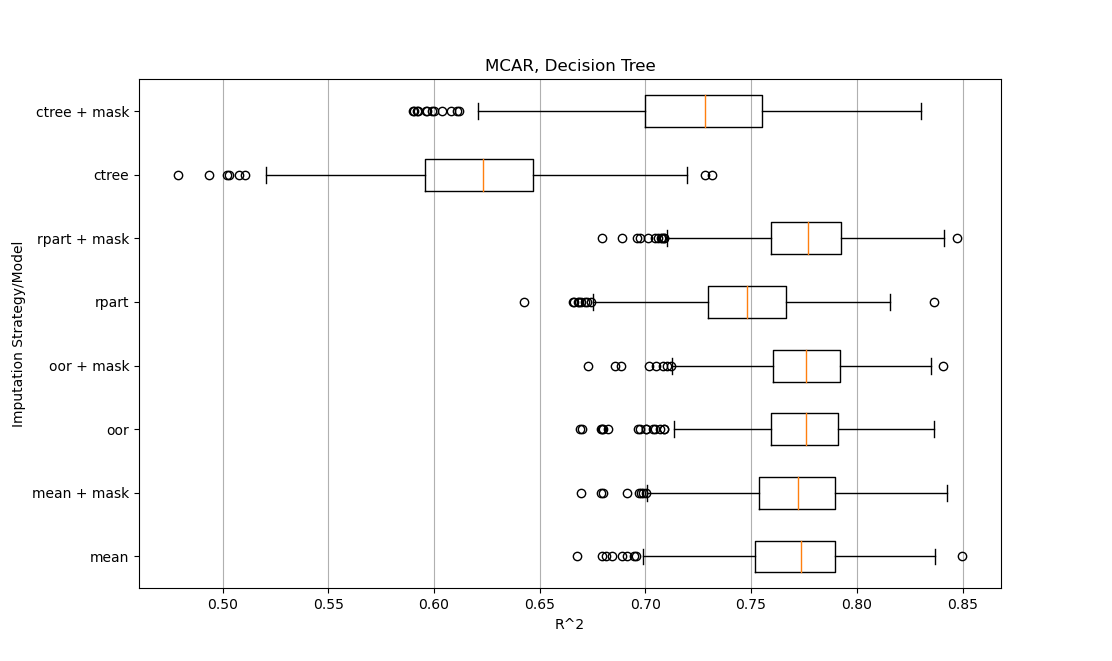
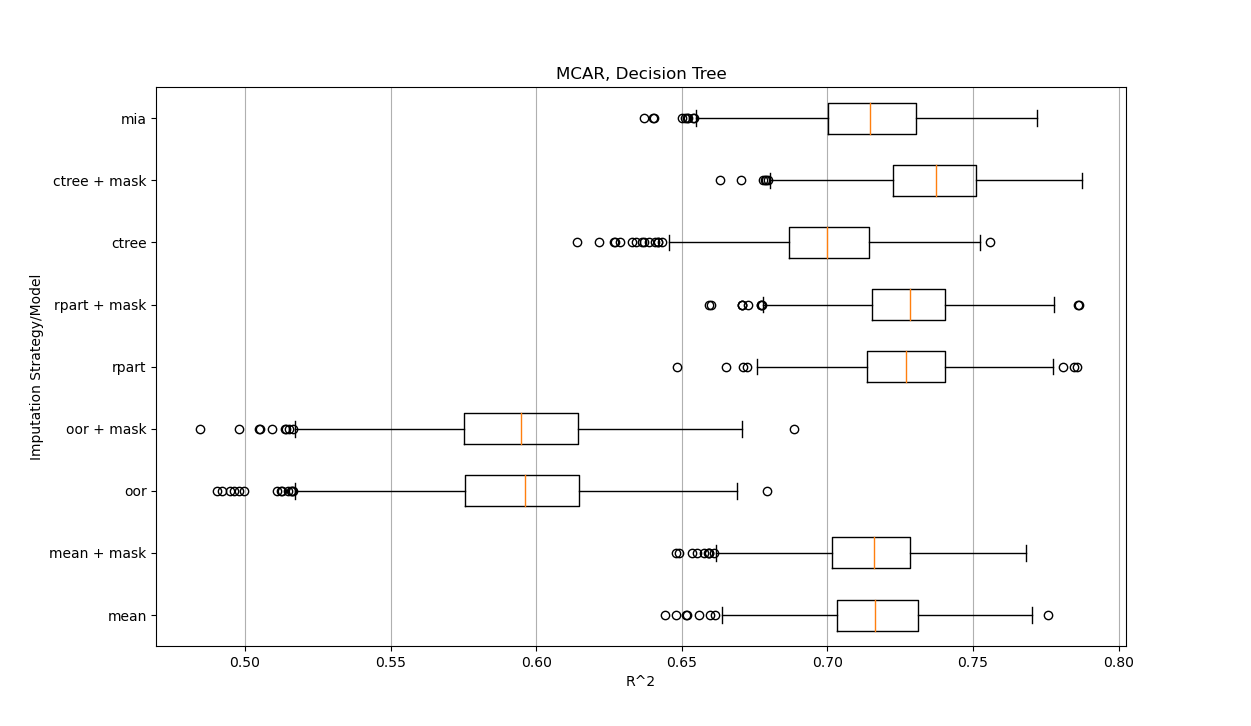
add mia and update dgp

diff --git a/data_generation.py b/data_generation.py
@@ -14,6 +14,12 @@ from sklearn.metrics import r2_score
 from sklearn.tree import DecisionTreeRegressor
 import pickle
 
+# Import necessary packages to use R in Python
+import rpy2.robjects as robjects
+import rpy2.robjects.packages as rpackages
+from rpy2.robjects.packages import importr
+from rpy2.robjects import pandas2ri
+
 def generate_data(size=1000, rho=0.5, d=10, num_missing=3, p=0.8, imputation_value=[0]*10, DGP='quadratic', missing='MCAR'):
     """
     This function controls the data-generating process.
@@ -90,8 +96,8 @@ def generate_data(size=1000, rho=0.5, d=10, num_missing=3, p=0.8, imputation_val
     
     # decide how the outcome variable Y is calculated
     if DGP == 'quadratic' and missing != 'predictive':
-        # quadratic DGP
-        Y = X[0]**2 + np.random.normal(0, 0.1, size)
+        # quadratic DGP, use the first three variables in the DGP
+        Y = X[0]**2 + X[1]**2 + X[2]**2 + np.random.normal(0, 0.1, size)
     elif DGP == 'quadratic' and missing == 'predictive':
         # a pattern mixture model where the missingness indicator is a part
         # of the regression function
@@ -140,12 +146,77 @@ def generate_data(size=1000, rho=0.5, d=10, num_missing=3, p=0.8, imputation_val
         for i in range(num_missing):
             for j in range(len(data_copy['X' + str(i+1)])):
                 if data_copy.at[j, 'R' + str(i+1)] == 0:
-                    # data_copy['X' + str(i+1)][j] = np.nan
                     data_copy.at[j, 'X' + str(i+1)] = np.nan
         return data_copy
+    elif imputation_value == 'mia':
+        data_copy = data.copy()
+
+        # step 1: make two copies of the columns of data that are incomplete
+        for i in range(num_missing):
+            data_copy['X'+str(i+1)+'copy1'] = data_copy['X'+str(i+1)].copy()
+            data_copy['X'+str(i+1)+'copy2'] = data_copy['X'+str(i+1)].copy()
+
+        # step 2: in the first copy, impute the missing values with negative infinity
+        for i in range(num_missing):
+            for j in range(len(data_copy['X'+str(i+1)+'copy1'])):
+                if data_copy.at[j, 'R'+str(i+1)] == 0:
+                    data_copy.at[j, 'X'+str(i+1)+'copy1'] = -10**10
+
+        # step 3: in the second copy, impute the missing values with positive infinity
+        for i in range(num_missing):
+            for j in range(len(data_copy['X'+str(i+1)+'copy2'])):
+                if data_copy.at[j, 'R'+str(i+1)] == 0:
+                    data_copy.at[j, 'X'+str(i+1)+'copy2'] = 10**10
+
+        # step 4: delete the original column of data
+        for i in range(num_missing):
+            data_copy = data_copy.drop(columns=['X'+str(i+1)])
+
+        # step 5: return the updated dataset
+        return data_copy
+    elif imputation_value == 'gaussian':
+        # **this is still in progress
+
+        # step 1: fill in nan values in the original dataset
+        data_copy = data.copy()
+        for i in range(num_missing):
+            for j in range(len(data_copy['X' + str(i+1)])):
+                if data_copy.at[j, 'R' + str(i+1)] == 0:
+                    data_copy.at[j, 'X' + str(i+1)] = np.nan
+
+        # step 2: convert the dataset into the format necessary for the norm package
+        data_copy = data_copy.drop(columns=['R1', 'R2', 'R3', 'Y'])
+        vector = []
+        for i in range(d):
+            vals = np.array(data['X'+str(i+1)])
+            for j in range(len(vals)):
+                vector.append(vals[j])
+        vector = robjects.FloatVector(vector)
+        matrix = robjects.r['matrix'](vector, nrow=size)
+
+        # step 3: use the norm package to estimate mu and sigma
+        # import the package
+        norm_package = importr('norm')
+
+        prelim = robjects.r['prelim.norm']
+        s = prelim(matrix)
+
+        em = robjects.r['em.norm']
+        thetahat = em(s)
+
+        getparam = robjects.r['getparam.norm']
+        output = getparam(s, thetahat, corr=False)
+        mu_hat = output[0]
+        sigma_hat = output[1]
+        print(mu_hat)
+        print(sigma_hat)
+
+        return True
     elif imputation_value == 'no_missing':
         return data
 
+    # the following code only applies to the mean imputation method or specifying a
+    # custom imputation value
     for j in range(num_missing):
         for i in range(len(R[j])):
             # replace missing values with the mean or the designated imputation value
@@ -154,8 +225,6 @@ def generate_data(size=1000, rho=0.5, d=10, num_missing=3, p=0.8, imputation_val
                     X[j][i] = mean[j]
                 else:
                     X[j][i] = imputation_value[j]
-
-    # print('proportion of observed X1:', np.mean(R1))
     
     # after imputting missing values, put the partially observed variables back into the
     # dataframe so that they are actually udpated with the imputed values
@@ -174,4 +243,4 @@ def generate_data(size=1000, rho=0.5, d=10, num_missing=3, p=0.8, imputation_val
 if __name__ == "__main__":
     np.random.seed(0)
 
-    print(generate_data(missing="predictive"))
+    print(generate_data(missing="MCAR", imputation_value='mia'))

diff --git a/model_management.py b/model_management.py
@@ -25,34 +25,46 @@ from rpy2.robjects.packages import importr
 from rpy2.robjects import pandas2ri
 from rpy2.robjects import Formula
 
-def create_formula(d, num_missing, mask):
+def create_formula(data, mask):
     # helper function for creating a regression formula
+
+    vars = data.columns
 
     # create the formula
     formula = 'Y~'
-    for i in range(d):
-        formula += '+X' + str(i+1)
-
-    # include the missingness indicator in the regression
-    if mask:
-        for i in range(num_missing):
-            formula += '+R' + str(i+1)
+    for i in range(len(vars)):
+        if vars[i][0] == 'R':
+            if mask:
+                formula += '+'+vars[i]
+        elif vars[i][0] == 'Y':
+            continue
+        else:
+            formula += '+'+vars[i]
 
     return formula
 
-def create_matrix(data, d, num_missing, mask):
+def create_matrix(data, mask):
     # helper function for creating a data matrix in the format
     # required for xgboost
+
+    vars = data.columns
 
     matrix = []
     for i in range(len(data)):
         row = []
-        for j in range(d):
-            row.append(data.at[i, 'X'+str(j+1)])
-        if mask:
-            for j in range(num_missing):
-                row.append(data.at[i, 'R'+str(j+1)])
+        for j in range(len(vars)):
+            if vars[j][0] == 'R':
+                if mask:
+                    row.append(data.at[i, vars[j]])
+            elif vars[j][0] == 'Y':
+                continue
+            else:
+                row.append(data.at[i, vars[j]])
+        # if mask:
+        #     for j in range(num_missing):
+        #         row.append(data.at[i, 'R'+str(j+1)])
         matrix.append(row)
+
     return matrix
 
 def train_model(data, d=9, num_missing=3, DGP='quadratic', model='regression', mask=False):
@@ -88,7 +100,7 @@ def train_model(data, d=9, num_missing=3, DGP='quadratic', model='regression', m
         # import the rpart package from R which will allow us to train an rpart model
         rpart_package = importr('rpart')
 
-        formula = create_formula(d, num_missing, mask)
+        formula = create_formula(data, mask)
 
         # train a decision tree, and use all default values as specified in Josse et al.
         tree = rpart_package.rpart(formula=Formula(formula), data=data)
@@ -99,7 +111,7 @@ def train_model(data, d=9, num_missing=3, DGP='quadratic', model='regression', m
         # import the partykit package from R which contains the ctree implementation
         partykit_package = importr('partykit')
 
-        formula = create_formula(d, num_missing, mask)
+        formula = create_formula(data, mask)
         
         # train a ctree using all default values
         tree = partykit_package.ctree(formula=Formula(formula), data=data)
@@ -109,7 +121,7 @@ def train_model(data, d=9, num_missing=3, DGP='quadratic', model='regression', m
         # import the ranger package from R which contains the random forest implementation
         ranger_package = importr('ranger')
 
-        formula = create_formula(d, num_missing, mask)
+        formula = create_formula(data, mask)
 
         # train a random forest using all default values from the package
         rand_forest = ranger_package.ranger(formula=Formula(formula), data=data)
@@ -120,7 +132,7 @@ def train_model(data, d=9, num_missing=3, DGP='quadratic', model='regression', m
         # first step is to recombine all the X variables and/or the R variables into a single
         # two-dimensional array in the original format of the multivariate normal function
 
-        matrix = create_matrix(data, d, num_missing, mask)
+        matrix = create_matrix(data, mask)
 
         # change the input format
         train_matrix = xgb.DMatrix(matrix, label=data['Y'])
@@ -159,7 +171,7 @@ def make_predictions(data_test, d, model_type, mask, model, num_missing=3):
         # first step is to recombine all the X variables and/or the R variables into a single
         # two-dimensional array
 
-        matrix = create_matrix(data_test, d, num_missing, mask)
+        matrix = create_matrix(data_test, mask)
 
         # change the input format 
         test_matrix = xgb.DMatrix(matrix)

diff --git a/missing_data_imputation.py b/missing_data_imputation.py
@@ -79,7 +79,7 @@ def run_single_experiment(size, d, DGP, missing_mechanism, mask, model_type, imp
     predictions = list(pd.Series(predictions).fillna(np.mean(predictions)))
     return r2_score(data_test['Y'], predictions)
     
-def run_experiments(repetitions=1000, verbose=False):
+def run_experiments(repetitions=1000, missing_mechanism='MCAR', verbose=False):
     """
     This function runs the synthetic experiments using four scenarios:
     1. no missing values as a baseline
@@ -90,14 +90,13 @@ def run_experiments(repetitions=1000, verbose=False):
     It repeats each scenario by the specified amount of times and reports
     the average of the R^2 values.
     """
-    r2_values = [[], [], [], [], [], [], [], [], []]
+    r2_values = [[], [], [], [], [], [], [], [], [], []]
 
     size = 2000
     np.random.seed(0)
 
     model_type = 'rpart'
     DGP = 'quadratic'
-    missing_mechanism = 'MCAR'
     d = 9
     print(model_type, 'and ctree;', DGP, missing_mechanism, 'size='+str(size), 'repetitions=', repetitions)
     print()
@@ -172,6 +171,13 @@ def run_experiments(repetitions=1000, verbose=False):
         r2_values[cnt].append(run_single_experiment(size, d, DGP, missing_mechanism, mask, 'ctree', 'nan'))
         cnt += 1
 
+        """
+        MIA
+        """
+        mask = False
+        r2_values[cnt].append(run_single_experiment(size, d, DGP, missing_mechanism, mask, 'rpart', 'mia'))
+        cnt += 1
+
     return [np.mean(r2_values[i]) for i in range(9)], r2_values
 
 if __name__ == "__main__":
@@ -181,23 +187,27 @@ if __name__ == "__main__":
     pandas2ri.activate()
     np.random.seed(0)
 
-    if len(sys.argv) == 2:
+    if len(sys.argv) >= 2:
         testing = sys.argv[1]
 
         if testing == 'True':
-            print(run_single_experiment(1000, 10, 'quadratic', 'MCAR', False, 'xgboost', [99999]*10))
+            print(run_single_experiment(1000, 10, 'quadratic', 'MCAR', True, 'xgboost', 'mean'))
         elif testing == 'False':
-            result = run_experiments(repetitions=1000)
+            if len(sys.argv) < 2:
+                print('input desired missingness mechanism')
+            else:
+                missing_mechanism = sys.argv[2]
+
+            result = run_experiments(repetitions=1000, missing_mechanism=missing_mechanism)
             print('mean values', result[0])
-            print('baseline, mean, mean with mask, out of range, out of range with mask, CART with surrogate splits',
-                'CART with surrogate splits with mask', 'ctree no mask', 'ctree with mask')
             
             output = pd.DataFrame({'mean': result[1][1], 'mean + mask': result[1][2], 'oor': result[1][3], 'oor + mask': result[1][4],
                                 'rpart': result[1][5], 'rpart + mask': result[1][6], 'ctree': result[1][7],
-                                'ctree + mask': result[1][8]})
-            # print(output)
+                                'ctree + mask': result[1][8], 'mia': result[1][9]})
+            print(output.columns)
+
             # pickle the entire array of results
-            with open('r2_values.pkl', 'wb') as file:
+            with open('r2_values_'+missing_mechanism+'.pkl', 'wb') as file:
                 pickle.dump(output, file)
 
             print('success')

diff --git a/plot.py b/plot.py
@@ -7,7 +7,7 @@ import matplotlib.pyplot as plt
 Code to plot experimental results from missing_data_imputation.py.
 """
 
-with open('r2_values.pkl', 'rb') as file:
+with open('r2_values_MNAR.pkl', 'rb') as file:
     data = pickle.load(file)
 
 fig, ax = plt.subplots()
@@ -16,7 +16,7 @@ fig, ax = plt.subplots()
 ax.boxplot(data, vert=False)
 
 # title and axis labels
-ax.set_title('MCAR, Decision Tree')
+ax.set_title('MNAR, Decision Tree')
 ax.set_xlabel('R^2')
 ax.set_ylabel('Imputation Strategy/Model')
 labels = data.columns
